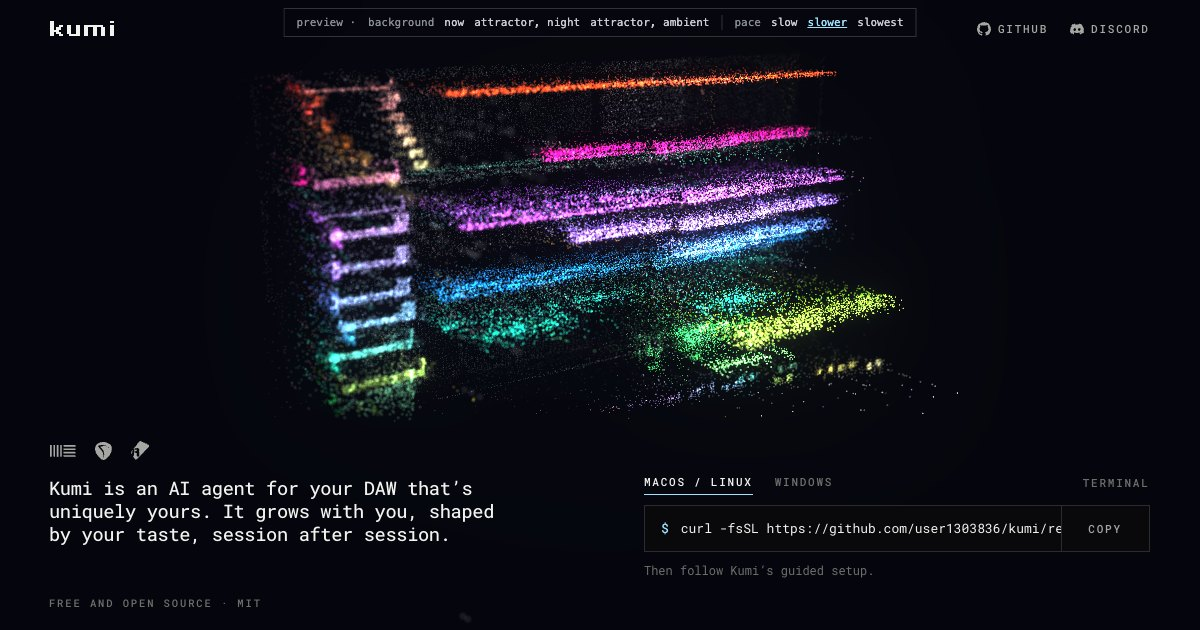
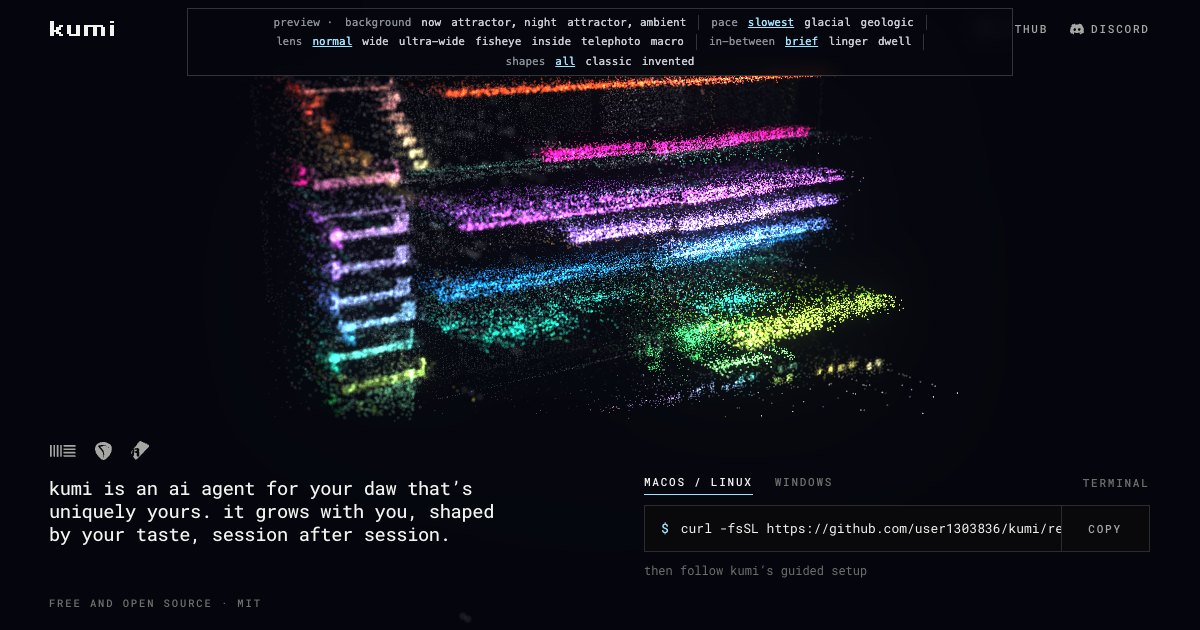
Preview: lenses, glacial paces, lingering in-betweens, invented shapes
index.html is v18: v17 with the headline and the line under the install
command in lower case. The attractor pages (12w night, 12x ambient) add:
paces glacial and geologic beyond slowest; seven lenses (normal, wide,
ultra-wide, fisheye, inside, telephoto, macro); an in-between switch
(brief, linger, dwell) that lets morphs drift slowly through their
amorphous middle; five invented flows (rose, cup, manta, smoke, flame)
beside the fifteen classic shapes, with a shapes switch (all, classic,
invented); and hovered DAW logos gathering out of the points over about
twenty seconds.

diff --git a/assets/r6-attractor.js b/assets/r6-attractor.js
@@ -21,9 +21,19 @@
                                       //   sudden   long stillness, then a morph in under a second (now and then two in a row)
                                       //   restless short holds and quick morphs
                                       //   slow     very long holds and very slow morphs
-                                      //   custom   holds and morphs drawn from `holds` and `morphs` ([min, max] s)
+                                      //   custom   holds and morphs drawn from `holds` and `morphs` ([min, max] s);
+                                      //            `linger` (0–1) of a morph drifts slowly through its amorphous middle,
+                                      //            0.5 ± `lingerSpan`, where neither shape can be told yet
+     haze: 0,                         // points also scatter this far (unit-ball units) at the middle of a morph
      hold: 9, morph: 4,               // for 'steady'
      flow: 1,                         // how fast points move along the shape (1: the round-5 pages' median speed)
+     lens: {                          // how the camera sees it (all optional; {} is the round-5 view):
+       fov: 0.72, near: 0.1,          //   a rectilinear lens's vertical field (radians) and near plane
+       dist: 3.1,                     //   the camera's distance from the shape's centre (divided by size)
+       proj: 0, diag: 90,             //   proj 1 equidistant, 2 stereographic, 3 equisolid fisheye, `diag` degrees from the
+                                      //   axis to the frame's corner
+       aperture: 0, focusDrift: 0, focusRate: 0.05, maxGrow: 10   // depth of field: points off the focus grow into soft
+     },                               //   discs (and fewer show); the focus drifts ±focusDrift through the shape
      spin: 0.09,                      // idle turn, radians per second
      center: [0.32, 0.0],             // where the shape sits, in NDC (or a function returning it)
      size: 1.0, pointSize: 1.0,       // size may be a function (e.g. smaller on a phone)
@@ -35,6 +45,8 @@
      logoRim: 0.25, logoShare: 0.75,  // shares of the points that draw the outline / go to the logo at all (the rest stay, dimmed)
      logoStay: 0.3,                   // share of the points that stay in the attractor that still show while a logo does
      morphWhileLogo: false,           // true: the attractor behind a logo keeps morphing and turning instead of waiting
+     formRate: 2.6, releaseRate: 3.4, slotRate: 3.2,   // how fast (per second) the points gather into a logo, let go,
+                                      // and cross to another logo
      drag: true,                      // false: the shape can't be turned with the mouse; it only turns by itself
      idleVideo: videoEl               // optional: colours while idle in 'video' ink
    });
@@ -44,7 +56,9 @@
 (function () {
   'use strict';
   var TYPES = { aizawa: 0, thomas: 1, halvorsen: 2, dadras: 3, chen: 4, fourwing: 5, sprott: 6, lorenz: 7, rossler: 8,
-    threescroll: 9, lorenz84: 10, shimizu: 11, burkeshaw: 12, dequanli: 13, hadley: 14, lorenzmod2: 15, halvorsen14: 16 };
+    threescroll: 9, lorenz84: 10, shimizu: 11, burkeshaw: 12, dequanli: 13, hadley: 14, lorenzmod2: 15, halvorsen14: 16,
+    // invented: random Thomas-like flows (cyclic sines, damping; they can't fly apart), picked by eye from 120
+    rose: 17, cup: 18, manta: 19, smoke: 20, flame: 21 };
   // c, s: the centre and scale that bring each attractor into roughly a unit ball. dt: the step while a fresh simulation
   // settles onto its shape (the largest that stays stable and true); pace: the step that moves its points at the
   // round-5 pages' median speed with two steps a frame. Measured offline with the shader's own integrator and seeding.
@@ -65,7 +79,12 @@
     { c: [-2.01, 0.42, 102.41], s: 0.0045, dt: 0.0016, pace: 0.000154 },   // dequan li
     { c: [0.97, -0.1, 0.09], s: 0.474, dt: 0.016, pace: 0.00386 },         // hadley
     { c: [0.27, 0.42, -0.21], s: 0.0639, dt: 0.006, pace: 0.00143 },       // lorenz mod 2
-    { c: [-3.12, -3.11, -3.12], s: 0.0665, dt: 0.008, pace: 0.00252 }      // halvorsen at a = 1.4
+    { c: [-3.12, -3.11, -3.12], s: 0.0665, dt: 0.008, pace: 0.00252 },     // halvorsen at a = 1.4
+    { c: [0.207, -0.002, -0.938], s: 0.2064, dt: 0.05, pace: 0.0212 },     // rose
+    { c: [-0.258, -0.706, -0.918], s: 0.1723, dt: 0.05, pace: 0.034 },     // cup
+    { c: [1.237, 0.099, 1.202], s: 0.2852, dt: 0.05, pace: 0.0197 },       // manta
+    { c: [-0.172, 0.626, 0.648], s: 0.1705, dt: 0.05, pace: 0.0489 },      // smoke
+    { c: [-0.104, 0.007, -0.84], s: 0.1088, dt: 0.05, pace: 0.0558 }       // flame
   ];
   var SEED_BOX = 0.4, SETTLE = 1440;   // seeds fill ±0.4 of the unit ball around the centre; steps before a shape shows
   var S = 1024, N = S * S;
@@ -112,7 +131,12 @@
       '  if (t == 13) return vec3(40.0 * (y - x) + 0.16 * x * z, 55.0 * x + 20.0 * y - x * z, 1.833 * z + x * y - 0.65 * x * x);',
       '  if (t == 14) return vec3(-y * y - z * z - 0.2 * x + 1.6, x * y - 4.0 * x * z - y + 1.0, 4.0 * x * y + x * z - z);',
       '  if (t == 15) return vec3(-0.9 * x + y * y - z * z + 8.91, x * (y - 5.0 * z) + 1.0, -z + x * (5.0 * y + z));',
-      '  return vec3(-1.4 * x - 4.0 * y - 4.0 * z - y * y, -1.4 * y - 4.0 * z - 4.0 * x - z * z, -1.4 * z - 4.0 * x - 4.0 * y - x * x);',
+      '  if (t == 16) return vec3(-1.4 * x - 4.0 * y - 4.0 * z - y * y, -1.4 * y - 4.0 * z - 4.0 * x - z * z, -1.4 * z - 4.0 * x - 4.0 * y - x * x);',
+      '  if (t == 17) return vec3(sin(1.0866 * y + 5.7705) + 0.3721 * sin(2.0789 * z + 5.6013) - 0.1525 * x + 0.2903 * y, sin(1.504 * z + 0.2199) + 0.5722 * sin(1.1666 * x + 4.308) - 0.1525 * y - 0.2903 * x, sin(1.2747 * x + 6.2324) + 0.0453 * sin(1.1693 * y + 1.9565) - 0.1525 * z);',
+      '  if (t == 18) return vec3(sin(1.4372 * y + 3.0318) + 0.4499 * sin(2.078 * z + 3.1664) - 0.1468 * x, sin(0.9707 * z + 0.2924) + 0.1352 * sin(2.4951 * x + 1.8352) - 0.1468 * y, sin(0.8249 * x + 4.9592) + 0.0699 * sin(0.788 * y + 2.7822) - 0.1468 * z);',
+      '  if (t == 19) return vec3(sin(0.712 * y + 2.2675) + 0.3727 * sin(1.7045 * z + 3.0001) - 0.1629 * x, sin(1.3716 * z + 6.0158) + 0.6745 * sin(0.7805 * x + 4.5612) - 0.1629 * y, sin(1.2769 * x + 6.184) + 0.1139 * sin(2.2335 * y + 5.0699) - 0.1629 * z);',
+      '  if (t == 20) return vec3(1.3 * sin(1.3083 * y + 1.9482) * cos(0.8236 * z + 1.4405) - 0.1719 * x, 1.3 * sin(0.9911 * z + 1.0758) * cos(1.0914 * x + 5.0159) - 0.1719 * y, 1.3 * sin(1.0317 * x + 1.6178) * cos(1.0415 * y + 2.5164) - 0.1719 * z);',
+      '  return vec3(sin(1.4614 * y + 0.4821) + 0.1617 * sin(0.9959 * z + 0.0008) - 0.126 * x, sin(1.301 * z + 5.9975) + 0.5471 * sin(2.0034 * x + 2.7808) - 0.126 * y, sin(0.7737 * x + 3.9655) + 0.2707 * sin(2.4724 * y + 6.2504) - 0.126 * z);',
       '}'].join('\n');
     // a fresh point: anywhere in a box around the shape's centre, so the points start spread over the shape, not in one clump
     var SEED_AT = 'uniform vec3 uSeedC; uniform float uSeedR; vec3 seedAt(vec2 fc, uint s) { return uSeedC + (rnd3(uint(fc.x), uint(fc.y), s) - 0.5) * 2.0 * uSeedR; }';
@@ -129,9 +153,10 @@
     var DRAW = prog(H + HASH + [
       'uniform sampler2D uA, uB, uV; uniform int uTA, uTB; uniform vec4 uNA, uNB; uniform float uMorph, uFlat, uSize, uAspect, uVideoAspect, uFlatW;',
       'uniform mat4 uMVP; uniform vec2 uCenter; uniform int uInk; uniform vec3 uC1, uC2; uniform float uAlpha, uOverlap; uniform int uBlend;',
+      'uniform mat4 uView; uniform int uProj; uniform float uFishK, uFishMax, uAperture, uFocus, uMaxGrow, uHaze;',
       'uniform float uForm, uSlot, uLogoH, uLogoA, uLogoF, uRim, uShare, uStay, uTime; uniform vec2 uLogoC; uniform vec4 uHole; uniform float uHoleAmt;',
       'uniform sampler2D uL0, uL1; uniform vec2 uN0, uN1;',
-      'out vec4 vC;',
+      'out vec4 vC; out float vSz;',
       'float h(float n) { return fract(sin(n * 12.9898) * 43758.5453); }',
       // a place in a logo: L lists its outline pixels (the first n.x) and then every pixel inside it (n.y), as 0..1 coordinates
       'vec2 pick(sampler2D L, vec2 n, float r, float rim, ivec2 c, uint salt) {',
@@ -145,6 +170,7 @@
       '  vec3 a = (texelFetch(uA, c, 0).xyz - uNA.xyz) * uNA.w;',
       '  vec3 b = (texelFetch(uB, c, 0).xyz - uNB.xyz) * uNB.w;',
       '  vec3 shape = mix(a, b, uMorph) + (h(float(id)) - 0.5) * 0.004;',
+      '  shape += (rnd3(uint(c.x), uint(c.y), 51u) - 0.5) * uHaze * sin(3.14159 * uMorph);',   // a looser cloud mid-morph
       '  vec2 uv = (vec2(c) + 0.5) / ' + S + '.0;',
       // the flat picture: a 16:9 plane facing the viewer, in clip space directly
       '  vec2 plane = (uv - 0.5) * vec2(uFlatW, uFlatW / uVideoAspect * uAspect) + uCenter;',
@@ -152,6 +178,19 @@
       '  float f = smoothstep(0.0, 1.0, clamp((uFlat * 1.8 - delay) / 0.9, 0.0, 1.0));',
       '  vec4 cs = uMVP * vec4(shape, 1.0); cs.xy += uCenter * cs.w;',
       '  vec4 pos = cs / cs.w;',
+      '  vec4 vs = uView * vec4(shape, 1.0);',
+      '  float dcam = -vs.z;',
+      '  if (uProj == 0) { if (cs.w < 0.02) pos = vec4(9.0, 9.0, 0.0, 1.0); }',   // behind or at the lens: not drawn
+      '  else {',
+      // a fisheye: the angle from the lens axis sets the distance from the centre (equidistant, stereographic, equisolid)
+      '    float rr = length(vs.xy), th = atan(rr, -vs.z);',
+      '    float r = uProj == 1 ? th : (uProj == 2 ? 2.0 * tan(min(th, 3.0) * 0.5) : 2.0 * sin(th * 0.5));',
+      '    vec2 q = (rr > 1e-7 ? vs.xy / rr : vec2(0.0)) * r * uFishK;',
+      '    pos = th < uFishMax ? vec4(q.x / uAspect + uCenter.x, q.y + uCenter.y, 0.0, 1.0) : vec4(9.0, 9.0, 0.0, 1.0);',
+      '    dcam = length(vs.xyz);',
+      '  }',
+      // depth of field: off the focus, points grow into soft discs and fewer of them show, so the light stays even
+      '  float grow = uAperture > 0.0 ? min(1.0 + abs(dcam - uFocus) * uAperture, uMaxGrow) : 1.0;',
       // Fading is done by showing fewer points, not dimmer ones: a dim point's share rounds away unevenly in an
       // 8-bit framebuffer (faint grey turns blue). `keep` is the chance a point shows; `logoA` scales the outline.
       '  float g = 0.0, logoA = 1.0, keep = 1.0;',
@@ -174,7 +213,7 @@
       '  } else if (uForm > 0.0005) keep = mix(1.0, uStay, smoothstep(0.0, 1.0, uForm));',
       '  vec4 cp = vec4(plane, 0.0, 1.0);',
       '  gl_Position = mix(pos, cp, f);',
-      '  gl_PointSize = uSize * (1.0 + f * 0.4);',
+      '  gl_PointSize = uSize * (1.0 + f * 0.4) * mix(grow, 1.0, max(f, g)); vSz = gl_PointSize;',
       '  vec3 vid = texture(uV, uv).rgb;',
       '  vec3 col;',
       '  if (uInk == 0) col = vid;',
@@ -191,11 +230,11 @@
       '  float aF = uBlend == 1 ? 1.15 / max(uOverlap, 1.0) : 1.0;',
       '  float hd = length((gl_Position.xy / gl_Position.w - uHole.xy) / uHole.zw);',
       '  keep *= mix(mix(uHoleAmt, 1.0, smoothstep(0.75, 1.25, hd)), 1.0, max(f, g));',
-      '  float shown = step(rnd3(uint(c.x), uint(c.y), 23u).x, keep);',
+      '  float shown = step(rnd3(uint(c.x), uint(c.y), 23u).x, keep * mix(1.0 / (grow * grow), 1.0, max(f, g)));',
       '  col = mix(col, uC1, rim * g * 0.6);',
       '  float aS = uAlpha * logoA * shown;',
       '  vC = vec4(mix(col, vidF, f), mix(aS, aF, f));',
-      '}'].join('\n'), H + 'in vec4 vC; uniform int uBlend; out vec4 o; void main(){ if (uBlend == 0) o = vec4(mix(vec3(1.0), vC.rgb, vC.a), 1.0); else o = vC; }');
+      '}'].join('\n'), H + 'in vec4 vC; in float vSz; uniform int uBlend; out vec4 o; void main(){ float a = vC.a * (vSz > 2.5 ? smoothstep(0.5, 0.3, length(gl_PointCoord - 0.5)) : 1.0); if (uBlend == 0) o = vec4(mix(vec3(1.0), vC.rgb, a), 1.0); else o = vec4(vC.rgb, a); }');
 
     var tri = gl.createBuffer(); gl.bindBuffer(gl.ARRAY_BUFFER, tri); gl.bufferData(gl.ARRAY_BUFFER, new Float32Array([-1, -1, 3, -1, -1, 3]), gl.STATIC_DRAW);
     var vaoTri = gl.createVertexArray(); gl.bindVertexArray(vaoTri); gl.enableVertexAttribArray(0); gl.vertexAttribPointer(0, 2, gl.FLOAT, false, 0, 0);
@@ -313,7 +352,12 @@
       if (rhythm === 'varied') s = [{ to: 0, dur: lu(2.5, 16) }, { to: 1, dur: lu(1, 11), ease: 1.2 + Math.random() * 2.3 }];
       else if (rhythm === 'restless') s = [{ to: 0, dur: lu(0.9, 3.5) }, { to: 1, dur: lu(0.9, 3.2), ease: 2 }];
       else if (rhythm === 'slow') s = [{ to: 0, dur: lu(14, 26) }, { to: 1, dur: lu(9, 16), ease: 2 }];
-      else if (rhythm === 'custom') s = [{ to: 0, dur: lu(o.holds[0], o.holds[1]) }, { to: 1, dur: lu(o.morphs[0], o.morphs[1]), ease: 1.8 }];
+      else if (rhythm === 'custom') {
+        var md = lu(o.morphs[0], o.morphs[1]), lg = o.linger || 0, sp = o.lingerSpan || 0.15;
+        s = [{ to: 0, dur: lu(o.holds[0], o.holds[1]) }];
+        if (lg > 0) s.push({ to: 0.5 - sp, dur: md * (1 - lg) / 2, ease: 1.6 }, { to: 0.5 + sp, dur: md * lg }, { to: 1, dur: md * (1 - lg) / 2, ease: 1.6 });
+        else s.push({ to: 1, dur: md, ease: 1.8 });
+      }
       else if (rhythm === 'sudden') {
         // now and then a second snap right after the first
         var again = lastHold > 3 && Math.random() < 0.3;
@@ -368,16 +412,18 @@
       }
       sinceSwap += dt;
       flat += (flatTarget - flat) * (flatTarget ? 0.035 : 0.03);
-      form += (formTarget - form) * Math.min(1, dt * (formTarget ? 2.6 : 3.4));
-      slot += (slotTarget - slot) * Math.min(1, dt * 3.2);
+      form += (formTarget - form) * Math.min(1, dt * (formTarget ? (o.formRate || 2.6) : (o.releaseRate || 3.4)));
+      slot += (slotTarget - slot) * Math.min(1, dt * (o.slotRate || 3.2));
       gl.bindVertexArray(vaoTri);
       // a fresh B settles fast (twelve steps a frame) so even a quick next morph lands on a formed shape
       if (!reduced) { advance(simA, dt); advance(simB, dt); }
       if (!drag && !reduced) yaw += dt * (o.spin != null ? o.spin : 0.09) * (1 - flat) * (o.morphWhileLogo ? 1 : 1 - form * 0.8);
       var aspect = W / Hh;
       var size = (typeof o.size === 'function' ? o.size() : o.size) || 1;
-      var view = mul(trans(0, 0, -3.1 / size), mul(rotX(pitch), rotY(yaw)));
-      var mvp = mul(persp(0.72, aspect, 0.1, 50), view);
+      var L = o.lens || {};
+      var camD = (L.dist != null ? L.dist : 3.1) / size;
+      var view = mul(trans(0, 0, -camD), mul(rotX(pitch), rotY(yaw)));
+      var mvp = mul(persp(L.fov || 0.72, aspect, L.near || 0.1, 60), view);
       gl.bindFramebuffer(gl.FRAMEBUFFER, null); gl.viewport(0, 0, W, Hh);
       gl.clearColor(bg[0], bg[1], bg[2], 1); gl.clear(gl.COLOR_BUFFER_BIT);
       gl.enable(gl.BLEND);
@@ -403,6 +449,14 @@
       gl.uniform1f(DRAW.u.uAspect, aspect); gl.uniform1f(DRAW.u.uVideoAspect, 16 / 9);
       gl.uniform1f(DRAW.u.uFlatW, o.flatWidth || 1.05);
       gl.uniformMatrix4fv(DRAW.u.uMVP, false, mvp);
+      gl.uniformMatrix4fv(DRAW.u.uView, false, view);
+      gl.uniform1i(DRAW.u.uProj, L.proj || 0);
+      if (L.proj) {
+        var fh = (L.diag || 90) * Math.PI / 180, fr = L.proj === 1 ? fh : L.proj === 2 ? 2 * Math.tan(fh / 2) : 2 * Math.sin(fh / 2);
+        gl.uniform1f(DRAW.u.uFishK, Math.sqrt(aspect * aspect + 1) / fr); gl.uniform1f(DRAW.u.uFishMax, Math.min(fh * 1.3, 3.0));
+      }
+      gl.uniform1f(DRAW.u.uAperture, L.aperture || 0); gl.uniform1f(DRAW.u.uMaxGrow, L.maxGrow || 10); gl.uniform1f(DRAW.u.uHaze, o.haze || 0);
+      gl.uniform1f(DRAW.u.uFocus, camD + (L.focusDrift || 0) * Math.sin(time * (L.focusRate || 0.05)));
       var ctr = (typeof o.center === 'function' ? o.center() : o.center) || [0, 0];
       gl.uniform2f(DRAW.u.uCenter, ctr[0], ctr[1]);
       var lc = (typeof o.logoCenter === 'function' ? o.logoCenter() : o.logoCenter) || ctr;

diff --git a/12x.html b/12x.html
@@ -24,7 +24,7 @@
 <canvas id="c" aria-label="A strange attractor made of a million points"></canvas>
 <script src="assets/kumi.js"></script>
 <script src="assets/shell.js"></script>
-<script>(function () { var mount = KumiShell.mount; KumiShell.mount = function (o) { return mount.call(KumiShell, Object.assign({}, o, { layout: 'bottom', font: 'roboto-mono', mono: 'roboto-mono', daws: 'marks', dawsAt: 'kicker', dawColor: 'dim', dawSize: 18, line: 1, demoStyle: 'squares', headStyle: 'one', head: 30, sub: false, headSize: 80 })); }; })();</script>
+<script>(function () { var mount = KumiShell.mount; KumiShell.mount = function (o) { return mount.call(KumiShell, Object.assign({}, o, { layout: 'bottom', font: 'roboto-mono', mono: 'roboto-mono', daws: 'marks', dawsAt: 'kicker', dawColor: 'dim', dawSize: 18, line: 1, demoStyle: 'squares', headStyle: 'one', head: 35, sub: false, headSize: 80, after: 'then follow kumi’s guided setup' })); }; })();</script>
 <script src="assets/r6-attractor.js"></script>
 <script>
 (function () {
@@ -32,23 +32,55 @@
   var wide = function () { return innerWidth > 820; };
   var flat = 0;
   var home = [0.08, 0.36], stage = [0, 0.02];
-  // Fifteen shapes in a shuffled order, and the pace: how fast the points flow, the turn (radians a second), how long
-  // each shape holds and how long a morph takes (seconds). ?pace= slow, slower or slowest; ?shapes=a,b tries only those.
+  // Twenty shapes (fifteen classic, five invented) in a shuffled order, and the pace: how fast the points flow, the turn (radians a second), how long
+  // each shape holds and how long a morph takes (seconds). ?pace= slow … geologic; ?shapes=a,b tries only those.
   var SHAPES = ['aizawa', 'thomas', 'halvorsen', 'dadras', 'chen', 'fourwing', 'lorenz', 'rossler', 'threescroll', 'lorenz84',
     'shimizu', 'burkeshaw', 'hadley', 'lorenzmod2', 'halvorsen14'];
+  var INVENTED = ['rose', 'cup', 'manta', 'smoke', 'flame'];   // made-up flows, not from the literature
+  var SHAPE_SETS = { all: SHAPES.concat(INVENTED), classic: SHAPES, invented: INVENTED };
+  var SHAPES_DEFAULT = 'all';
   var PACES = {
     slow: { flow: 0.5, spin: 0.045, holds: [8, 16], morphs: [7, 12] },
     slower: { flow: 0.3, spin: 0.03, holds: [10, 20], morphs: [10, 16] },
-    slowest: { flow: 0.18, spin: 0.018, holds: [12, 24], morphs: [14, 22] }
+    slowest: { flow: 0.18, spin: 0.018, holds: [12, 24], morphs: [14, 22] },
+    glacial: { flow: 0.07, spin: 0.007, holds: [20, 40], morphs: [30, 50] },
+    geologic: { flow: 0.025, spin: 0.0025, holds: [40, 80], morphs: [70, 120] }
   };
-  var PACE_DEFAULT = 'slower';
+  var PACE_DEFAULT = 'glacial';
+  // Lenses: rectilinear ones by field of view, the camera pulled in closer the wider they get; fisheyes
+  // map the angle from the axis (diag: degrees to the frame's corner); macro focuses on a thin slice that drifts slowly
+  // through the shape. ?lens= any of these.
+  var LENSES = {
+    normal: {},
+    wide: { fov: 1.745, dist: 0.8, near: 0.02 },
+    ultrawide: { fov: 2.27, dist: 0.5, near: 0.02 },
+    fisheye: { proj: 1, diag: 100, dist: 0.8 },
+    inside: { proj: 2, diag: 135, dist: 0.12 },
+    telephoto: { fov: 0.1396, dist: 16.7 },
+    macro: { dist: 2.6, aperture: 7, maxGrow: 10, focusDrift: 0.5, focusRate: 0.04 }
+  };
+  var LENS_DEFAULT = 'normal';
+  // The in-between, where one shape has let go and the next hasn't formed: brief (the plain morph), linger (half of each
+  // morph drifts slowly through its amorphous middle) or dwell (shorter holds, longer morphs, mostly in-between, a little
+  // looser). ?between= any of these.
+  var BETWEENS = {
+    brief: {},
+    linger: { linger: 0.5, span: 0.15 },
+    dwell: { linger: 0.7, span: 0.2, haze: 0.12, holds: 0.5, morphs: 1.5 }
+  };
+  var BETWEEN_DEFAULT = 'linger';
+
   var q = new URLSearchParams(location.search);
-  var pace = PACES[q.get('pace')] || PACES[PACE_DEFAULT];
-  var only = (q.get('shapes') || '').split(',').filter(function (n) { return SHAPES.indexOf(n) >= 0; });
+  var pace = PACES[q.get('pace')] || PACES[PACE_DEFAULT], lens = LENSES[q.get('lens')] || LENSES[LENS_DEFAULT];
+  var between = BETWEENS[q.get('between')] || BETWEENS[BETWEEN_DEFAULT];
+  var scale = function (r, k) { return [r[0] * (k || 1), r[1] * (k || 1)]; };
+  var only = SHAPE_SETS[q.get('shapes') || SHAPES_DEFAULT] || (q.get('shapes') || '').split(',').filter(function (n) { return SHAPE_SETS.all.indexOf(n) >= 0; });
   var idle = null;   // its ink is depth, so it never took colour from a video
   var a = KumiAttractor(document.getElementById('c'), Object.assign({"bg": [0.035, 0.035, 0.04], "blend": "add", "ink": "depth", "color": [0.95, 0.93, 0.88], "color2": [0.25, 0.25, 0.3], "alpha": 0.05, "sequence": ["aizawa", "halvorsen", "fourwing", "thomas"], "hold": 11, "morph": 5, "size": 1.25, "pointSize": 1.3, "rhythm": "varied", "logoSize": 0.8, "logoAlpha": 0.6, "rimPx": 2, "logoShare": 0.6, "logoRim": 0.24, "logoStay": 0.85, "morphWhileLogo": true, "drag": false}, {
-    idleVideo: idle, sequence: only.length ? only : SHAPES, shuffle: true, rhythm: 'custom', holds: pace.holds, morphs: pace.morphs,
-    flow: pace.flow, spin: pace.spin, size: function () { return wide() ? 1.25 : 0.7; },   // smaller on a phone, where the shapes ran off the sides
+    idleVideo: idle, sequence: only.length ? only : SHAPE_SETS.all, shuffle: true, rhythm: 'custom', holds: scale(pace.holds, between.holds), morphs: scale(pace.morphs, between.morphs),
+    linger: between.linger, lingerSpan: between.span, haze: between.haze,
+    flow: pace.flow, spin: pace.spin, lens: lens,
+    formRate: 0.12, releaseRate: 0.3, slotRate: 0.2,   // a hovered logo gathers out of the points very slowly (about 20 s) size: function () { return wide() ? 1.25 : 0.7; },   // smaller on a phone, where the shapes ran off the sides
     center: function () { var h = wide() ? home : [0, 0.28]; return [h[0] + (stage[0] - h[0]) * flat, h[1] + (stage[1] - h[1]) * flat]; }
   }));
   window.__attractor = a;
@@ -62,6 +94,6 @@
   }));
 })();
 </script>
-<nav id="pv" aria-label="Preview"><b>preview ·</b><span><b>background</b><a data-k="page" data-v="index.html" href="./">now</a><a data-k="page" data-v="12w.html" href="12w.html">attractor, night</a><a data-k="page" data-v="12x.html" href="12x.html">attractor, ambient</a></span><i></i><span><b>pace</b><a data-k="pace" data-v="slow" href="?pace=slow">slow</a><a data-k="pace" data-v="slower" href="?pace=slower">slower</a><a data-k="pace" data-v="slowest" href="?pace=slowest">slowest</a></span></nav><style>#pv{position:fixed;z-index:50;left:50%;top:8px;transform:translateX(-50%);display:flex;flex-wrap:wrap;justify-content:center;gap:4px 12px;width:max-content;max-width:min(800px,calc(100vw - 24px));padding:6px 12px;background:rgba(5,6,13,.82);border:1px solid rgba(255,255,255,.18);font:500 11px/1.4 ui-monospace,Menlo,monospace;color:#8a8f99;-webkit-backdrop-filter:blur(8px);backdrop-filter:blur(8px)}#pv b{font-weight:500;color:#8a8f99}#pv span{display:flex;gap:0 10px;white-space:nowrap}#pv i{width:1px;align-self:stretch;background:rgba(255,255,255,.18)}#pv a{color:#c9cdd4;text-decoration:none}#pv a.on{color:#9fe3ff;text-decoration:underline}</style><script>(function(){var q=new URLSearchParams(location.search),d={"pace": "slower"},here=(location.pathname.split("/").pop()||"index").replace(/\.html$/,"");document.querySelectorAll("#pv a").forEach(function(a){var k=a.dataset.k.split(","),v=a.dataset.v.split(",");if(k[0]==="page"){if(v[0].replace(/\.html$/,"")===here)a.className="on";a.addEventListener("click",function(e){e.preventDefault();location.href=a.getAttribute("href")+location.search;});return;}if(k.every(function(x,i){return(q.get(x)||d[x])===v[i];}))a.className="on";a.addEventListener("click",function(e){e.preventDefault();k.forEach(function(x,i){q.set(x,v[i]);});location.search=q.toString();});});})();</script>
+<nav id="pv" aria-label="Preview"><b>preview ·</b><span><b>background</b><a data-k="page" data-v="index.html" href="./">now</a><a data-k="page" data-v="12w.html" href="12w.html">attractor, night</a><a data-k="page" data-v="12x.html" href="12x.html">attractor, ambient</a></span><i></i><span><b>pace</b><a data-k="pace" data-v="slowest" href="?pace=slowest">slowest</a><a data-k="pace" data-v="glacial" href="?pace=glacial">glacial</a><a data-k="pace" data-v="geologic" href="?pace=geologic">geologic</a></span><i></i><span><b>lens</b><a data-k="lens" data-v="normal" href="?lens=normal">normal</a><a data-k="lens" data-v="wide" href="?lens=wide">wide</a><a data-k="lens" data-v="ultrawide" href="?lens=ultrawide">ultra-wide</a><a data-k="lens" data-v="fisheye" href="?lens=fisheye">fisheye</a><a data-k="lens" data-v="inside" href="?lens=inside">inside</a><a data-k="lens" data-v="telephoto" href="?lens=telephoto">telephoto</a><a data-k="lens" data-v="macro" href="?lens=macro">macro</a></span><i></i><span><b>in-between</b><a data-k="between" data-v="brief" href="?between=brief">brief</a><a data-k="between" data-v="linger" href="?between=linger">linger</a><a data-k="between" data-v="dwell" href="?between=dwell">dwell</a></span><i></i><span><b>shapes</b><a data-k="shapes" data-v="all" href="?shapes=all">all</a><a data-k="shapes" data-v="classic" href="?shapes=classic">classic</a><a data-k="shapes" data-v="invented" href="?shapes=invented">invented</a></span></nav><style>#pv{position:fixed;z-index:50;left:50%;top:8px;transform:translateX(-50%);display:flex;flex-wrap:wrap;justify-content:center;gap:4px 12px;width:max-content;max-width:min(800px,calc(100vw - 24px));padding:6px 12px;background:rgba(5,6,13,.82);border:1px solid rgba(255,255,255,.18);font:500 11px/1.4 ui-monospace,Menlo,monospace;color:#8a8f99;-webkit-backdrop-filter:blur(8px);backdrop-filter:blur(8px)}#pv b{font-weight:500;color:#8a8f99}#pv span{display:flex;gap:0 10px;white-space:nowrap}#pv i{width:1px;align-self:stretch;background:rgba(255,255,255,.18)}#pv a{color:#c9cdd4;text-decoration:none}#pv a.on{color:#9fe3ff;text-decoration:underline}</style><script>(function(){var q=new URLSearchParams(location.search),d={"pace": "glacial", "lens": "normal", "between": "linger", "shapes": "all"},here=(location.pathname.split("/").pop()||"index").replace(/\.html$/,"");document.querySelectorAll("#pv a").forEach(function(a){var k=a.dataset.k.split(","),v=a.dataset.v.split(",");if(k[0]==="page"){if(v[0].replace(/\.html$/,"")===here)a.className="on";a.addEventListener("click",function(e){e.preventDefault();location.href=a.getAttribute("href")+location.search;});return;}if(k.every(function(x,i){return(q.get(x)||d[x])===v[i];}))a.className="on";a.addEventListener("click",function(e){e.preventDefault();k.forEach(function(x,i){q.set(x,v[i]);});location.search=q.toString();});});})();</script>
 </body>
 </html>

diff --git a/12w.html b/12w.html
@@ -24,7 +24,7 @@
 <canvas id="c" aria-label="A strange attractor made of a million points"></canvas>
 <script src="assets/kumi.js"></script>
 <script src="assets/shell.js"></script>
-<script>(function () { var mount = KumiShell.mount; KumiShell.mount = function (o) { return mount.call(KumiShell, Object.assign({}, o, { layout: 'bottom', font: 'roboto-mono', mono: 'roboto-mono', daws: 'marks', dawsAt: 'kicker', dawColor: 'dim', dawSize: 18, line: 1, demoStyle: 'squares', headStyle: 'one', head: 30, sub: false, headSize: 80 })); }; })();</script>
+<script>(function () { var mount = KumiShell.mount; KumiShell.mount = function (o) { return mount.call(KumiShell, Object.assign({}, o, { layout: 'bottom', font: 'roboto-mono', mono: 'roboto-mono', daws: 'marks', dawsAt: 'kicker', dawColor: 'dim', dawSize: 18, line: 1, demoStyle: 'squares', headStyle: 'one', head: 35, sub: false, headSize: 80, after: 'then follow kumi’s guided setup' })); }; })();</script>
 <script src="assets/r6-attractor.js"></script>
 <script>
 (function () {
@@ -32,23 +32,55 @@
   var wide = function () { return innerWidth > 820; };
   var flat = 0;
   var home = [0.08, 0.36], stage = [0, 0.02];
-  // Fifteen shapes in a shuffled order, and the pace: how fast the points flow, the turn (radians a second), how long
-  // each shape holds and how long a morph takes (seconds). ?pace= slow, slower or slowest; ?shapes=a,b tries only those.
+  // Twenty shapes (fifteen classic, five invented) in a shuffled order, and the pace: how fast the points flow, the turn (radians a second), how long
+  // each shape holds and how long a morph takes (seconds). ?pace= slow … geologic; ?shapes=a,b tries only those.
   var SHAPES = ['aizawa', 'thomas', 'halvorsen', 'dadras', 'chen', 'fourwing', 'lorenz', 'rossler', 'threescroll', 'lorenz84',
     'shimizu', 'burkeshaw', 'hadley', 'lorenzmod2', 'halvorsen14'];
+  var INVENTED = ['rose', 'cup', 'manta', 'smoke', 'flame'];   // made-up flows, not from the literature
+  var SHAPE_SETS = { all: SHAPES.concat(INVENTED), classic: SHAPES, invented: INVENTED };
+  var SHAPES_DEFAULT = 'all';
   var PACES = {
     slow: { flow: 0.5, spin: 0.045, holds: [8, 16], morphs: [7, 12] },
     slower: { flow: 0.3, spin: 0.03, holds: [10, 20], morphs: [10, 16] },
-    slowest: { flow: 0.18, spin: 0.018, holds: [12, 24], morphs: [14, 22] }
+    slowest: { flow: 0.18, spin: 0.018, holds: [12, 24], morphs: [14, 22] },
+    glacial: { flow: 0.07, spin: 0.007, holds: [20, 40], morphs: [30, 50] },
+    geologic: { flow: 0.025, spin: 0.0025, holds: [40, 80], morphs: [70, 120] }
   };
-  var PACE_DEFAULT = 'slower';
+  var PACE_DEFAULT = 'glacial';
+  // Lenses: rectilinear ones by field of view, the camera pulled in closer the wider they get; fisheyes
+  // map the angle from the axis (diag: degrees to the frame's corner); macro focuses on a thin slice that drifts slowly
+  // through the shape. ?lens= any of these.
+  var LENSES = {
+    normal: {},
+    wide: { fov: 1.745, dist: 0.8, near: 0.02 },
+    ultrawide: { fov: 2.27, dist: 0.5, near: 0.02 },
+    fisheye: { proj: 1, diag: 100, dist: 0.8 },
+    inside: { proj: 2, diag: 135, dist: 0.12 },
+    telephoto: { fov: 0.1396, dist: 16.7 },
+    macro: { dist: 2.6, aperture: 7, maxGrow: 10, focusDrift: 0.5, focusRate: 0.04 }
+  };
+  var LENS_DEFAULT = 'normal';
+  // The in-between, where one shape has let go and the next hasn't formed: brief (the plain morph), linger (half of each
+  // morph drifts slowly through its amorphous middle) or dwell (shorter holds, longer morphs, mostly in-between, a little
+  // looser). ?between= any of these.
+  var BETWEENS = {
+    brief: {},
+    linger: { linger: 0.5, span: 0.15 },
+    dwell: { linger: 0.7, span: 0.2, haze: 0.12, holds: 0.5, morphs: 1.5 }
+  };
+  var BETWEEN_DEFAULT = 'linger';
+
   var q = new URLSearchParams(location.search);
-  var pace = PACES[q.get('pace')] || PACES[PACE_DEFAULT];
-  var only = (q.get('shapes') || '').split(',').filter(function (n) { return SHAPES.indexOf(n) >= 0; });
+  var pace = PACES[q.get('pace')] || PACES[PACE_DEFAULT], lens = LENSES[q.get('lens')] || LENSES[LENS_DEFAULT];
+  var between = BETWEENS[q.get('between')] || BETWEENS[BETWEEN_DEFAULT];
+  var scale = function (r, k) { return [r[0] * (k || 1), r[1] * (k || 1)]; };
+  var only = SHAPE_SETS[q.get('shapes') || SHAPES_DEFAULT] || (q.get('shapes') || '').split(',').filter(function (n) { return SHAPE_SETS.all.indexOf(n) >= 0; });
   var idle = null;   // its ink is depth, so it never took colour from a video
   var a = KumiAttractor(document.getElementById('c'), Object.assign({"bg": [0.016, 0.018, 0.026], "blend": "add", "ink": "depth", "color": [0.62, 0.8, 1.0], "color2": [0.12, 0.16, 0.4], "alpha": 0.16, "sequence": ["thomas", "aizawa", "fourwing", "halvorsen"], "size": 0.82, "pointSize": 1.0, "rhythm": "sudden", "logoSize": 1.05, "logoAlpha": 0.42, "rimPx": 2, "logoShare": 0.6, "logoRim": 0.24, "logoStay": 0.85, "morphWhileLogo": true, "drag": false}, {
-    idleVideo: idle, sequence: only.length ? only : SHAPES, shuffle: true, rhythm: 'custom', holds: pace.holds, morphs: pace.morphs,
-    flow: pace.flow, spin: pace.spin, size: function () { return wide() ? 0.82 : 0.6; },   // smaller on a phone, where the shapes ran off the sides
+    idleVideo: idle, sequence: only.length ? only : SHAPE_SETS.all, shuffle: true, rhythm: 'custom', holds: scale(pace.holds, between.holds), morphs: scale(pace.morphs, between.morphs),
+    linger: between.linger, lingerSpan: between.span, haze: between.haze,
+    flow: pace.flow, spin: pace.spin, lens: lens,
+    formRate: 0.12, releaseRate: 0.3, slotRate: 0.2,   // a hovered logo gathers out of the points very slowly (about 20 s) size: function () { return wide() ? 0.82 : 0.6; },   // smaller on a phone, where the shapes ran off the sides
     center: function () { var h = wide() ? home : [0, 0.28]; return [h[0] + (stage[0] - h[0]) * flat, h[1] + (stage[1] - h[1]) * flat]; }
   }));
   window.__attractor = a;
@@ -62,6 +94,6 @@
   }));
 })();
 </script>
-<nav id="pv" aria-label="Preview"><b>preview ·</b><span><b>background</b><a data-k="page" data-v="index.html" href="./">now</a><a data-k="page" data-v="12w.html" href="12w.html">attractor, night</a><a data-k="page" data-v="12x.html" href="12x.html">attractor, ambient</a></span><i></i><span><b>pace</b><a data-k="pace" data-v="slow" href="?pace=slow">slow</a><a data-k="pace" data-v="slower" href="?pace=slower">slower</a><a data-k="pace" data-v="slowest" href="?pace=slowest">slowest</a></span></nav><style>#pv{position:fixed;z-index:50;left:50%;top:8px;transform:translateX(-50%);display:flex;flex-wrap:wrap;justify-content:center;gap:4px 12px;width:max-content;max-width:min(800px,calc(100vw - 24px));padding:6px 12px;background:rgba(5,6,13,.82);border:1px solid rgba(255,255,255,.18);font:500 11px/1.4 ui-monospace,Menlo,monospace;color:#8a8f99;-webkit-backdrop-filter:blur(8px);backdrop-filter:blur(8px)}#pv b{font-weight:500;color:#8a8f99}#pv span{display:flex;gap:0 10px;white-space:nowrap}#pv i{width:1px;align-self:stretch;background:rgba(255,255,255,.18)}#pv a{color:#c9cdd4;text-decoration:none}#pv a.on{color:#9fe3ff;text-decoration:underline}</style><script>(function(){var q=new URLSearchParams(location.search),d={"pace": "slower"},here=(location.pathname.split("/").pop()||"index").replace(/\.html$/,"");document.querySelectorAll("#pv a").forEach(function(a){var k=a.dataset.k.split(","),v=a.dataset.v.split(",");if(k[0]==="page"){if(v[0].replace(/\.html$/,"")===here)a.className="on";a.addEventListener("click",function(e){e.preventDefault();location.href=a.getAttribute("href")+location.search;});return;}if(k.every(function(x,i){return(q.get(x)||d[x])===v[i];}))a.className="on";a.addEventListener("click",function(e){e.preventDefault();k.forEach(function(x,i){q.set(x,v[i]);});location.search=q.toString();});});})();</script>
+<nav id="pv" aria-label="Preview"><b>preview ·</b><span><b>background</b><a data-k="page" data-v="index.html" href="./">now</a><a data-k="page" data-v="12w.html" href="12w.html">attractor, night</a><a data-k="page" data-v="12x.html" href="12x.html">attractor, ambient</a></span><i></i><span><b>pace</b><a data-k="pace" data-v="slowest" href="?pace=slowest">slowest</a><a data-k="pace" data-v="glacial" href="?pace=glacial">glacial</a><a data-k="pace" data-v="geologic" href="?pace=geologic">geologic</a></span><i></i><span><b>lens</b><a data-k="lens" data-v="normal" href="?lens=normal">normal</a><a data-k="lens" data-v="wide" href="?lens=wide">wide</a><a data-k="lens" data-v="ultrawide" href="?lens=ultrawide">ultra-wide</a><a data-k="lens" data-v="fisheye" href="?lens=fisheye">fisheye</a><a data-k="lens" data-v="inside" href="?lens=inside">inside</a><a data-k="lens" data-v="telephoto" href="?lens=telephoto">telephoto</a><a data-k="lens" data-v="macro" href="?lens=macro">macro</a></span><i></i><span><b>in-between</b><a data-k="between" data-v="brief" href="?between=brief">brief</a><a data-k="between" data-v="linger" href="?between=linger">linger</a><a data-k="between" data-v="dwell" href="?between=dwell">dwell</a></span><i></i><span><b>shapes</b><a data-k="shapes" data-v="all" href="?shapes=all">all</a><a data-k="shapes" data-v="classic" href="?shapes=classic">classic</a><a data-k="shapes" data-v="invented" href="?shapes=invented">invented</a></span></nav><style>#pv{position:fixed;z-index:50;left:50%;top:8px;transform:translateX(-50%);display:flex;flex-wrap:wrap;justify-content:center;gap:4px 12px;width:max-content;max-width:min(800px,calc(100vw - 24px));padding:6px 12px;background:rgba(5,6,13,.82);border:1px solid rgba(255,255,255,.18);font:500 11px/1.4 ui-monospace,Menlo,monospace;color:#8a8f99;-webkit-backdrop-filter:blur(8px);backdrop-filter:blur(8px)}#pv b{font-weight:500;color:#8a8f99}#pv span{display:flex;gap:0 10px;white-space:nowrap}#pv i{width:1px;align-self:stretch;background:rgba(255,255,255,.18)}#pv a{color:#c9cdd4;text-decoration:none}#pv a.on{color:#9fe3ff;text-decoration:underline}</style><script>(function(){var q=new URLSearchParams(location.search),d={"pace": "glacial", "lens": "normal", "between": "linger", "shapes": "all"},here=(location.pathname.split("/").pop()||"index").replace(/\.html$/,"");document.querySelectorAll("#pv a").forEach(function(a){var k=a.dataset.k.split(","),v=a.dataset.v.split(",");if(k[0]==="page"){if(v[0].replace(/\.html$/,"")===here)a.className="on";a.addEventListener("click",function(e){e.preventDefault();location.href=a.getAttribute("href")+location.search;});return;}if(k.every(function(x,i){return(q.get(x)||d[x])===v[i];}))a.className="on";a.addEventListener("click",function(e){e.preventDefault();k.forEach(function(x,i){q.set(x,v[i]);});location.search=q.toString();});});})();</script>
 </body>
 </html>

diff --git a/index.html b/index.html
@@ -77,7 +77,7 @@ const hooks = { daw() {} };
 const shell = KumiShell.mount({
   layout: LAYOUT, theme: 'dark', font: 'roboto-mono', mono: 'roboto-mono',
   colors: { accent: '#9fe3ff' }, stage: 'self',
-  daws: 'marks', dawsAt: 'kicker', dawColor: 'dim', dawSize: 18, line: 1, demoStyle: 'squares', headStyle: 'one', head: 30, sub: false, headSize: 80,
+  daws: 'marks', dawsAt: 'kicker', dawColor: 'dim', dawSize: 18, line: 1, demoStyle: 'squares', headStyle: 'one', head: 35, sub: false, headSize: 80, after: 'then follow kumi’s guided setup',
   onDaw: (i, daw) => hooks.daw(i, daw),
   onDemo: (i, d, video) => { if (!video.parentNode) hide(video); want = 1; ambient.pause(); },
   onRelease: () => { want = 0; if (!RM) ambient.play().catch(() => {}); }
@@ -407,6 +407,6 @@ renderer.setAnimationLoop(() => {
   composer.render(dt);
 });
 </script>
-<nav id="pv" aria-label="Preview"><b>preview ·</b><span><b>background</b><a data-k="page" data-v="index.html" href="./">now</a><a data-k="page" data-v="12w.html" href="12w.html">attractor, night</a><a data-k="page" data-v="12x.html" href="12x.html">attractor, ambient</a></span><i></i><span><b>pace</b><a data-k="pace" data-v="slow" href="?pace=slow">slow</a><a data-k="pace" data-v="slower" href="?pace=slower">slower</a><a data-k="pace" data-v="slowest" href="?pace=slowest">slowest</a></span></nav><style>#pv{position:fixed;z-index:50;left:50%;top:8px;transform:translateX(-50%);display:flex;flex-wrap:wrap;justify-content:center;gap:4px 12px;width:max-content;max-width:min(800px,calc(100vw - 24px));padding:6px 12px;background:rgba(5,6,13,.82);border:1px solid rgba(255,255,255,.18);font:500 11px/1.4 ui-monospace,Menlo,monospace;color:#8a8f99;-webkit-backdrop-filter:blur(8px);backdrop-filter:blur(8px)}#pv b{font-weight:500;color:#8a8f99}#pv span{display:flex;gap:0 10px;white-space:nowrap}#pv i{width:1px;align-self:stretch;background:rgba(255,255,255,.18)}#pv a{color:#c9cdd4;text-decoration:none}#pv a.on{color:#9fe3ff;text-decoration:underline}</style><script>(function(){var q=new URLSearchParams(location.search),d={"pace": "slower"},here=(location.pathname.split("/").pop()||"index").replace(/\.html$/,"");document.querySelectorAll("#pv a").forEach(function(a){var k=a.dataset.k.split(","),v=a.dataset.v.split(",");if(k[0]==="page"){if(v[0].replace(/\.html$/,"")===here)a.className="on";a.addEventListener("click",function(e){e.preventDefault();location.href=a.getAttribute("href")+location.search;});return;}if(k.every(function(x,i){return(q.get(x)||d[x])===v[i];}))a.className="on";a.addEventListener("click",function(e){e.preventDefault();k.forEach(function(x,i){q.set(x,v[i]);});location.search=q.toString();});});})();</script>
+<nav id="pv" aria-label="Preview"><b>preview ·</b><span><b>background</b><a data-k="page" data-v="index.html" href="./">now</a><a data-k="page" data-v="12w.html" href="12w.html">attractor, night</a><a data-k="page" data-v="12x.html" href="12x.html">attractor, ambient</a></span><i></i><span><b>pace</b><a data-k="pace" data-v="slowest" href="?pace=slowest">slowest</a><a data-k="pace" data-v="glacial" href="?pace=glacial">glacial</a><a data-k="pace" data-v="geologic" href="?pace=geologic">geologic</a></span><i></i><span><b>lens</b><a data-k="lens" data-v="normal" href="?lens=normal">normal</a><a data-k="lens" data-v="wide" href="?lens=wide">wide</a><a data-k="lens" data-v="ultrawide" href="?lens=ultrawide">ultra-wide</a><a data-k="lens" data-v="fisheye" href="?lens=fisheye">fisheye</a><a data-k="lens" data-v="inside" href="?lens=inside">inside</a><a data-k="lens" data-v="telephoto" href="?lens=telephoto">telephoto</a><a data-k="lens" data-v="macro" href="?lens=macro">macro</a></span><i></i><span><b>in-between</b><a data-k="between" data-v="brief" href="?between=brief">brief</a><a data-k="between" data-v="linger" href="?between=linger">linger</a><a data-k="between" data-v="dwell" href="?between=dwell">dwell</a></span><i></i><span><b>shapes</b><a data-k="shapes" data-v="all" href="?shapes=all">all</a><a data-k="shapes" data-v="classic" href="?shapes=classic">classic</a><a data-k="shapes" data-v="invented" href="?shapes=invented">invented</a></span></nav><style>#pv{position:fixed;z-index:50;left:50%;top:8px;transform:translateX(-50%);display:flex;flex-wrap:wrap;justify-content:center;gap:4px 12px;width:max-content;max-width:min(800px,calc(100vw - 24px));padding:6px 12px;background:rgba(5,6,13,.82);border:1px solid rgba(255,255,255,.18);font:500 11px/1.4 ui-monospace,Menlo,monospace;color:#8a8f99;-webkit-backdrop-filter:blur(8px);backdrop-filter:blur(8px)}#pv b{font-weight:500;color:#8a8f99}#pv span{display:flex;gap:0 10px;white-space:nowrap}#pv i{width:1px;align-self:stretch;background:rgba(255,255,255,.18)}#pv a{color:#c9cdd4;text-decoration:none}#pv a.on{color:#9fe3ff;text-decoration:underline}</style><script>(function(){var q=new URLSearchParams(location.search),d={"pace": "slowest", "lens": "normal", "between": "brief", "shapes": "all"},here=(location.pathname.split("/").pop()||"index").replace(/\.html$/,"");document.querySelectorAll("#pv a").forEach(function(a){var k=a.dataset.k.split(","),v=a.dataset.v.split(",");if(k[0]==="page"){if(v[0].replace(/\.html$/,"")===here)a.className="on";a.addEventListener("click",function(e){e.preventDefault();location.href=a.getAttribute("href")+location.search;});return;}if(k.every(function(x,i){return(q.get(x)||d[x])===v[i];}))a.className="on";a.addEventListener("click",function(e){e.preventDefault();k.forEach(function(x,i){q.set(x,v[i]);});location.search=q.toString();});});})();</script>
 </body>
 </html>

diff --git a/assets/shell.js b/assets/shell.js
@@ -14,6 +14,7 @@
      headline: ['An AI agent', 'that works alongside you', 'in your DAW.'],
      kicker: 'Ableton Live · REAPER · Renoise',
      sub: '…',
+     after: '…',              // the line under the install command (default: Then follow Kumi’s guided setup.)
      stage: 'self',           // 'self': your visual shows shell.video itself; 'panel': the shell shows it in a frame
      daws: 'marks',           // how the DAWs show: 'text' (the kicker, the default) | 'marks' (a row of logos; the name on hover)
                               //   | 'cycle' (one logo and its name at a time, rolling) | 'dots' (logos built from drifting points)
@@ -274,7 +275,8 @@
     var install = el('div', 'ks-install');
     install.innerHTML = '<div class="ks-tabs" role="tablist" aria-label="Your system"><button data-os="mac" role="tab">macOS / Linux</button><button data-os="win" role="tab">Windows</button><span data-shell></span></div>' +
       '<div class="ks-cmd"><span class="ks-prompt" aria-hidden="true">$</span><code data-cmd tabindex="0"></code><button class="ks-copy" data-copy aria-label="Copy the install command">Copy</button></div>' +
-      '<p class="ks-after">Then follow Kumi’s guided setup.</p>';
+      '<p class="ks-after"></p>';
+    install.querySelector('.ks-after').textContent = o.after || 'Then follow Kumi’s guided setup.';
     var dawStyle = o.daws || 'text';
     if (o.kicker !== false && dawStyle === 'text') hero.appendChild(kicker);
     // sub: false leaves out the line under the headline; ?sub=0 or ?sub=1 overrides, for comparing

diff --git a/assets/kumi.js b/assets/kumi.js
@@ -265,7 +265,9 @@
       'Kumi is an AI agent for your DAW that’s uniquely yours. It learns your taste and grows with you, session after session.',
       'Kumi is an AI agent for your DAW that’s uniquely yours. The longer you work together, the more it works like you.',
       'Kumi is an AI agent for your DAW that’s uniquely yours. Every session, it learns a little more of your taste.',
-      'Kumi is an AI agent for your DAW that’s uniquely yours, and it grows with your taste, session after session.'
+      'Kumi is an AI agent for your DAW that’s uniquely yours, and it grows with your taste, session after session.',
+      // 35: F all in lower case
+      'kumi is an ai agent for your daw that’s uniquely yours. it grows with you, shaped by your taste, session after session.'
     ],
     // Candidate lines under the headline, for comparing in place: a page shows lines[n] with ?line=n (0 = its own).
     lines: [
